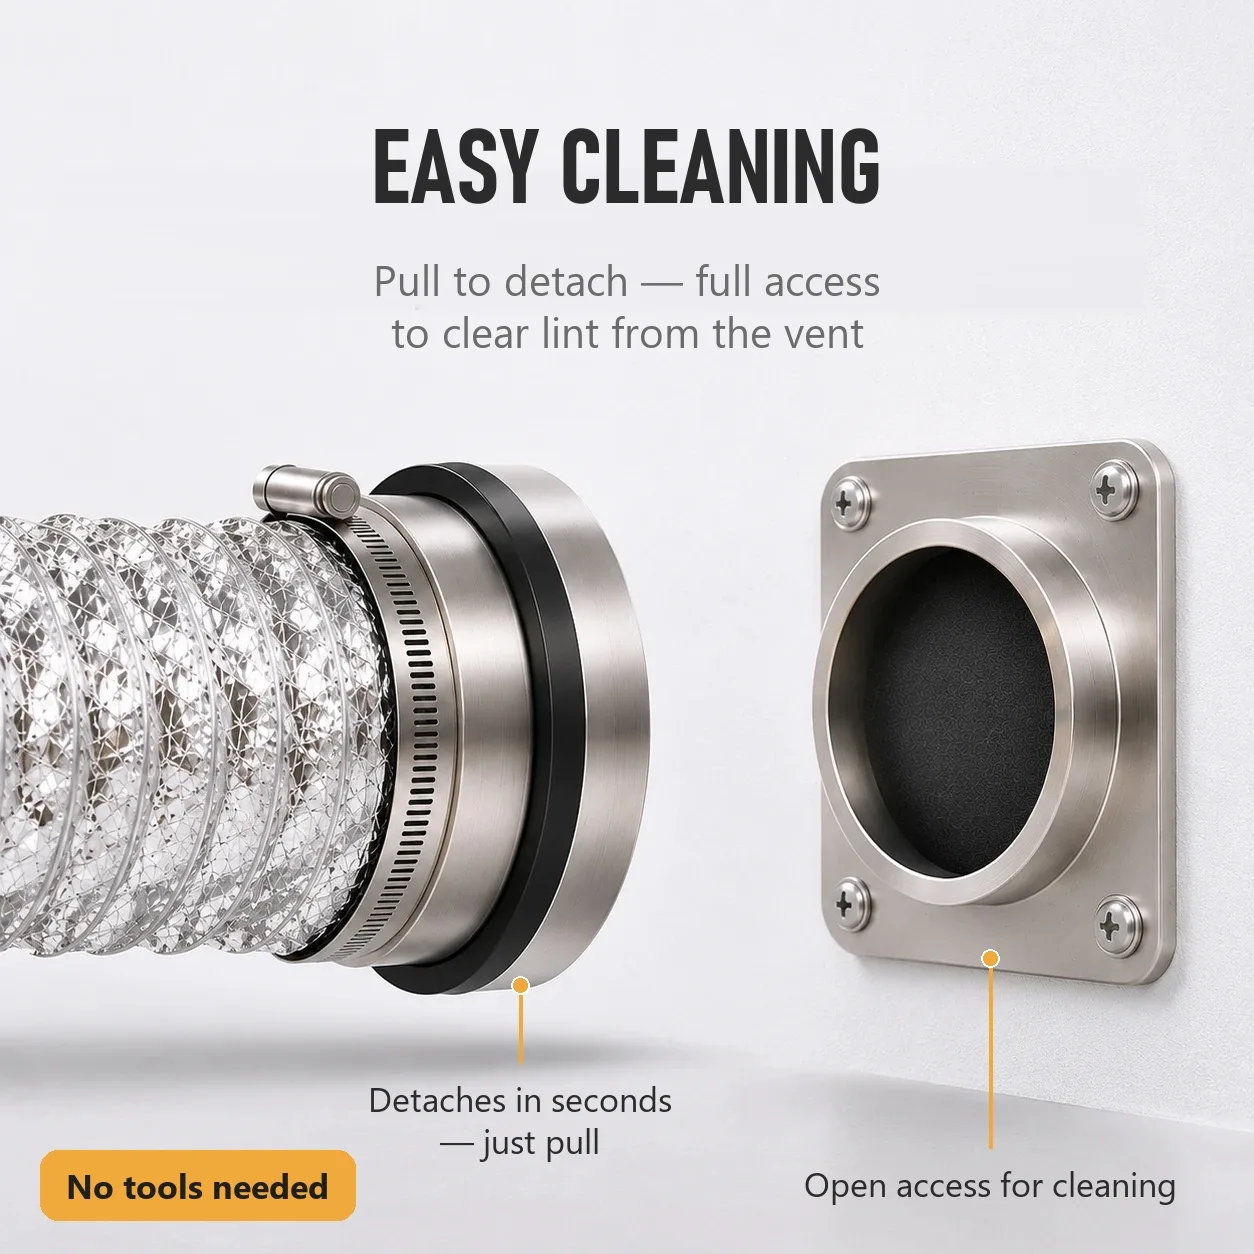
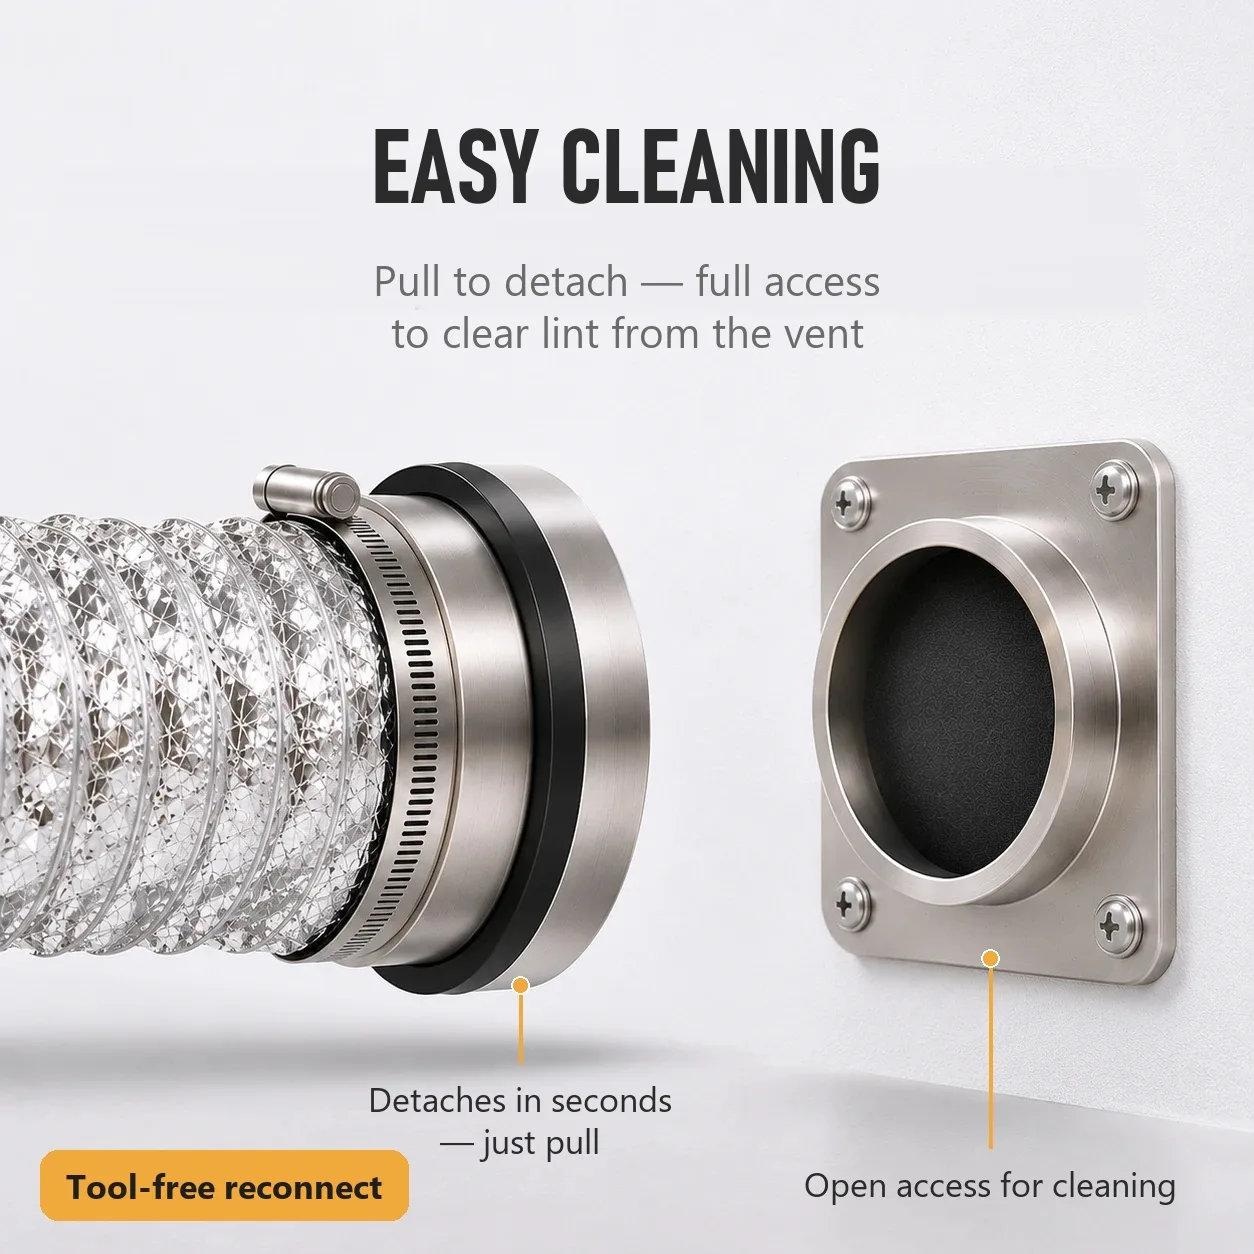
Clarify that tools are only needed for the one-time install
The product page said "no tools needed" in the gallery but listed
"Tools required" further down. The tools section is now "One-time
installation" with a note that connecting and disconnecting afterwards
needs no tools, and the Easy Cleaning image badge reads "Tool-free
reconnect".

Changed region(s): [[0.0311, 0.9019, 0.3421, 0.9952]]

diff --git a/app/products/[slug]/page.tsx b/app/products/[slug]/page.tsx
@@ -232,11 +232,18 @@ export default async function ProductPage({
             </div>
           </Section>
 
-          <Section eyebrow="Before You Start" title="Tools and preparation">
+          <Section eyebrow="Before You Start" title="One-time installation">
+            <Reveal>
+              <p className="-mt-3 mb-6 max-w-2xl text-sm leading-7 text-slate-600">
+                These tools are only needed once, to mount the wall plate. After
+                that, connecting and disconnecting the duct for cleaning takes
+                no tools at all.
+              </p>
+            </Reveal>
             <Reveal className="grid gap-5 lg:grid-cols-[1fr_1.1fr]">
               <div className="rounded-[2rem] border border-slate-200 bg-white p-6 shadow-sm">
                 <h3 className="text-lg font-semibold tracking-tight text-slate-950">
-                  Tools required
+                  Tools for installation
                 </h3>
                 <div className="mt-5 grid gap-3 sm:grid-cols-2">
                   {guide.tools.map((tool) => (

diff --git a/lib/productGuides.ts b/lib/productGuides.ts
@@ -39,7 +39,7 @@ export const productGuides: Record<string, ProductGuide> = {
       {
         src: "/images/dv180/easy-cleaning.webp",
         title: "Easy to clean",
-        text: "Pull the duct off the wall plate to reach the vent opening and clear lint. Reconnect in seconds, no tools needed.",
+        text: "Pull the duct off the wall plate to reach the vent opening and clear lint. Reconnect in seconds with no tools: only the first installation needs basic tools.",
         alt: "Duct detached from the wall plate, leaving the vent opening accessible for lint cleaning",
         width: 1254,
         height: 1254,
